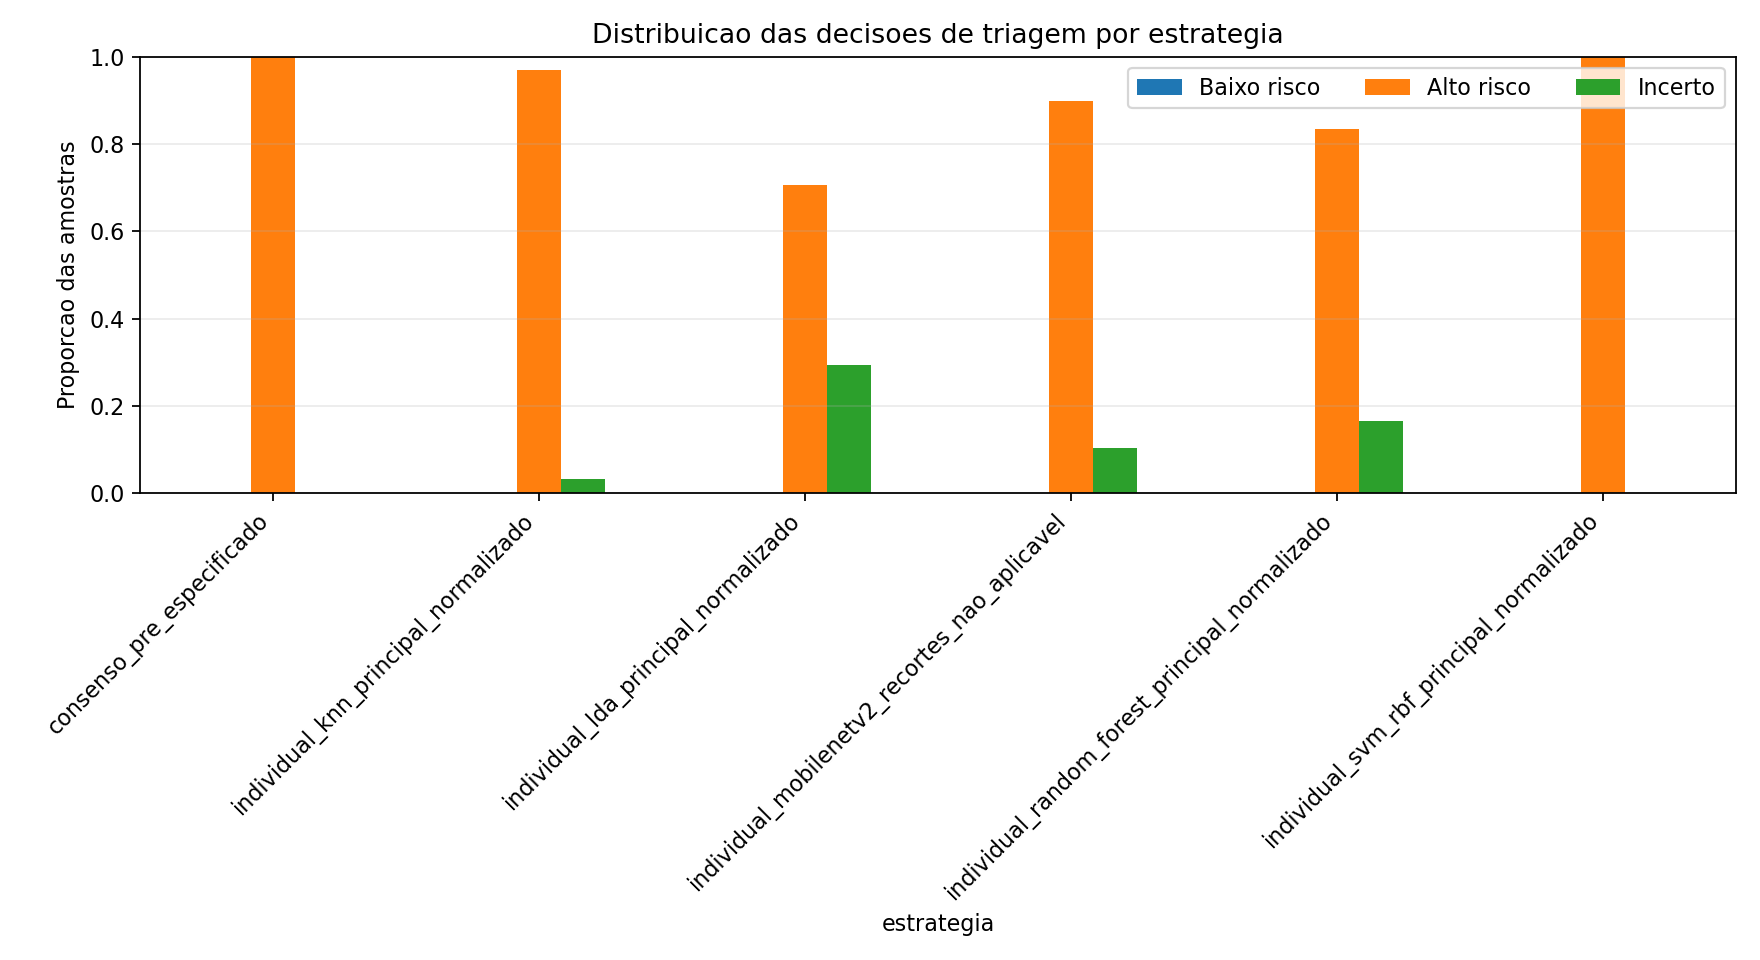
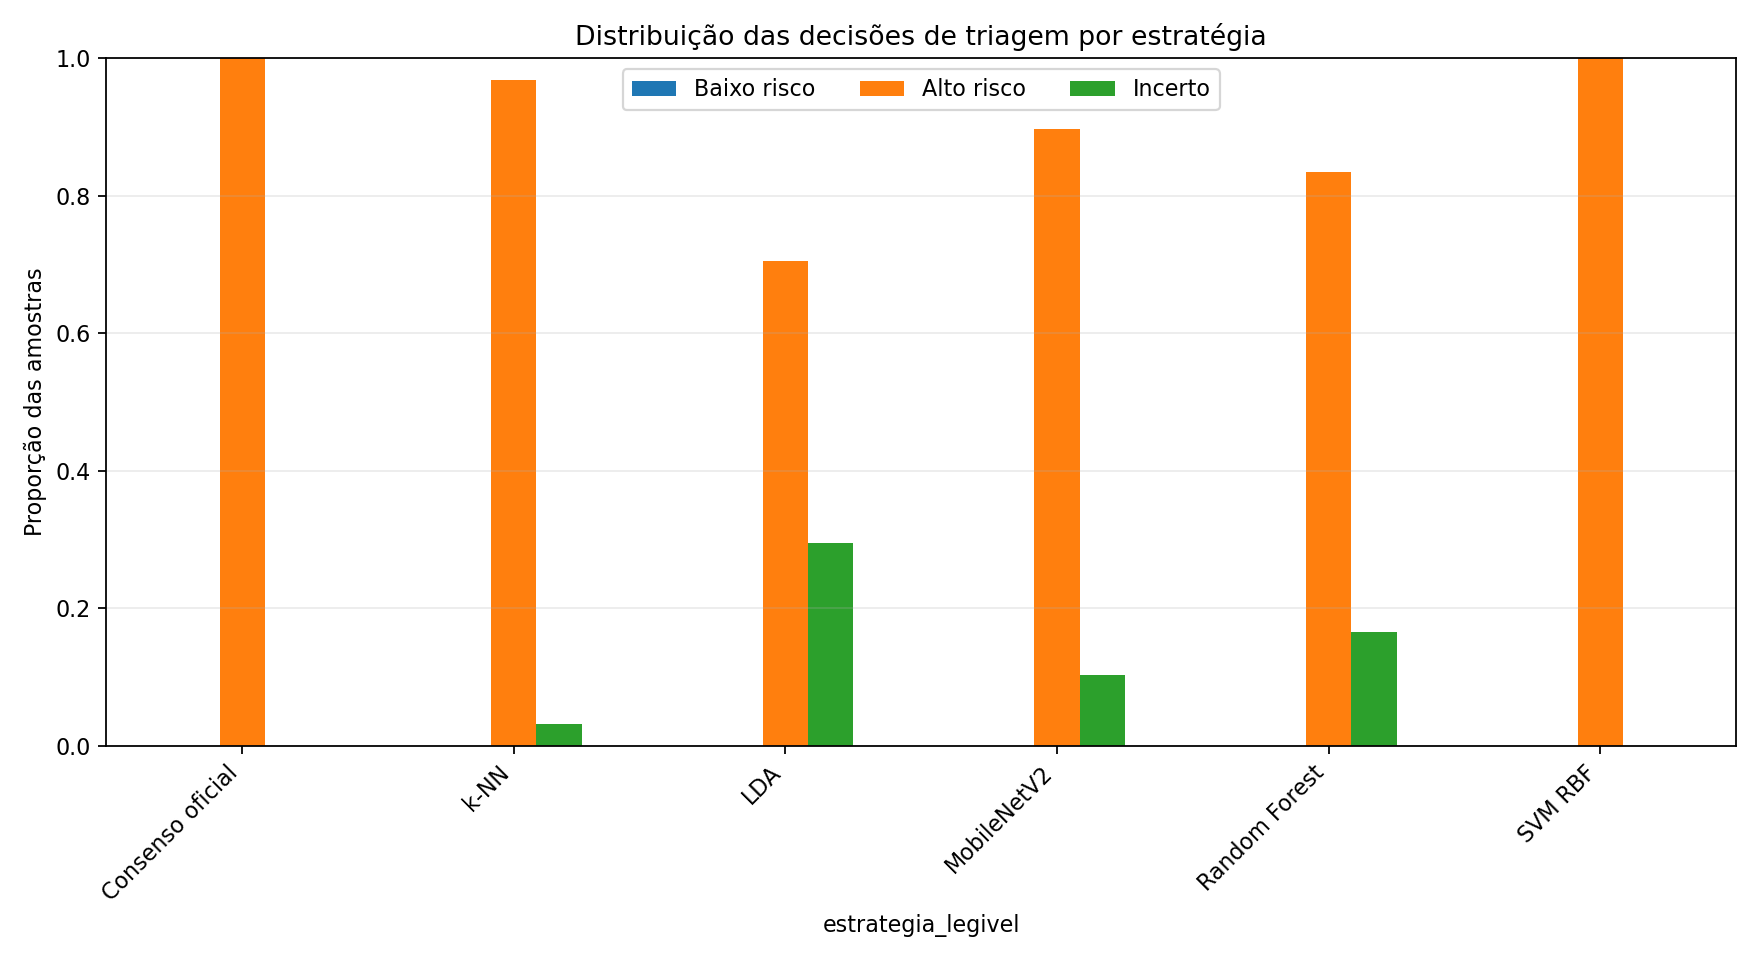
Ajusta apresentação do relatório de triagem

diff --git a/docs/relatorio_triagem_preventiva.md b/docs/relatorio_triagem_preventiva.md
@@ -1,13 +1,13 @@
-# Relatorio da triagem preventiva
+# Relatório da triagem preventiva
 
-Gerado em: 2026-06-08T15:38:17
+Gerado em: 2026-06-08T15:45:47
 
 ## 1. Objetivo
 
-A triagem preventiva transforma os resultados de classificacao em uma regra
-operacional conservadora. Ela nao substitui a avaliacao manual: o objetivo e
-priorizar alto risco, manter incerteza quando o sinal nao e suficiente e evitar
-tratar baixo risco como liberacao automatica.
+A triagem preventiva transforma os resultados de classificação em uma regra
+operacional conservadora. Ela não substitui a avaliação manual: o objetivo é
+priorizar alto risco, manter incerteza quando o sinal não é suficiente e evitar
+tratar baixo risco como liberação automática.
 
 ## 2. Entradas
 
@@ -19,9 +19,9 @@ tratar baixo risco como liberacao automatica.
 - `saidas\tabelas\08_triagem\resumo_triagem_micro_macro.csv`
 - `saidas\tabelas\08_triagem\score_triagem_recomendado.csv`
 
-## 3. Estrategia oficial
+## 3. Estratégia oficial
 
-A estrategia oficial foi definida antes da avaliacao externa:
+A estratégia oficial foi definida antes da avaliação externa:
 `consenso_pre_especificado`.
 
 Regras:
@@ -30,9 +30,14 @@ Regras:
   baixos no fold;
 - alto risco: pelo menos um modelo acima do seu threshold alto no fold;
 - incerto: demais casos;
-- se algum modelo/fold nao tiver threshold baixo seguro, nao ha baixo risco
+- se algum modelo/fold não tiver threshold baixo seguro, não há baixo risco
   naquele fold;
-- a comparacao externa de estrategias e exploratoria e nao seleciona a regra.
+- a comparação externa de estratégias é exploratória e não seleciona a regra.
+
+O termo `crossfit` permanece apenas nos nomes técnicos dos arquivos. Neste
+relatório, ele significa validação externa
+leave-one-experimento-tratamento-out com calibração interna por grupo; não deve
+ser interpretado como cross-fitting estatístico clássico.
 
 Invariantes registrados:
 
@@ -42,96 +47,96 @@ Invariantes registrados:
 
 ## 4. Thresholds
 
-Threshold baixo: maior threshold da validacao interna com `fn == 0`,
+Threshold baixo: maior threshold da validação interna com `fn == 0`,
 `tn >= minimo_utilidade` e `threshold_baixo < threshold_alto`, em que
 `minimo_utilidade = max(5, ceil(0.05 * suporte_nao_contaminada_validacao))`.
 
-Threshold alto: melhor F1 da classe contaminada na validacao interna,
-desempatando por recall, precisao e menor numero de falsos positivos.
+Threshold alto: melhor F1 da classe contaminada na validação interna,
+desempatando por recall, precisão e menor número de falsos positivos.
 
 Thresholds sem zona de baixo risco:
 
-| fold | grupo_externo | modelo | conjunto_features | status_threshold_baixo |
+| fold | grupo externo | modelo | conjunto de features | status threshold baixo |
 | --- | --- | --- | --- | --- |
-| 1.000 | micro_ondas__controle | knn | principal_normalizado | baixo_risco_suspenso |
-| 1.000 | micro_ondas__controle | lda | principal_normalizado | baixo_risco_suspenso |
-| 1.000 | micro_ondas__controle | mobilenetv2_recortes | nao_aplicavel | baixo_risco_suspenso |
-| 1.000 | micro_ondas__controle | random_forest | principal_normalizado | baixo_risco_suspenso |
-| 1.000 | micro_ondas__controle | svm_rbf | principal_normalizado | baixo_risco_suspenso |
-| 2.000 | micro_ondas__mw | knn | principal_normalizado | baixo_risco_suspenso |
-| 2.000 | micro_ondas__mw | lda | principal_normalizado | baixo_risco_suspenso |
-| 2.000 | micro_ondas__mw | mobilenetv2_recortes | nao_aplicavel | baixo_risco_suspenso |
-| 2.000 | micro_ondas__mw | random_forest | principal_normalizado | baixo_risco_suspenso |
-| 2.000 | micro_ondas__mw | svm_rbf | principal_normalizado | baixo_risco_suspenso |
-| 3.000 | piloto__controle | knn | principal_normalizado | baixo_risco_suspenso |
-| 3.000 | piloto__controle | lda | principal_normalizado | baixo_risco_suspenso |
-| 3.000 | piloto__controle | mobilenetv2_recortes | nao_aplicavel | baixo_risco_suspenso |
-| 3.000 | piloto__controle | random_forest | principal_normalizado | baixo_risco_suspenso |
-| 3.000 | piloto__controle | svm_rbf | principal_normalizado | baixo_risco_suspenso |
-| 4.000 | piloto__fungicida | knn | principal_normalizado | baixo_risco_suspenso |
-| 4.000 | piloto__fungicida | lda | principal_normalizado | baixo_risco_suspenso |
-| 4.000 | piloto__fungicida | mobilenetv2_recortes | nao_aplicavel | baixo_risco_suspenso |
-| 4.000 | piloto__fungicida | random_forest | principal_normalizado | baixo_risco_suspenso |
-| 4.000 | piloto__fungicida | svm_rbf | principal_normalizado | baixo_risco_suspenso |
+| 1 | micro_ondas__controle | knn | principal_normalizado | baixo_risco_suspenso |
+| 1 | micro_ondas__controle | lda | principal_normalizado | baixo_risco_suspenso |
+| 1 | micro_ondas__controle | mobilenetv2_recortes | nao_aplicavel | baixo_risco_suspenso |
+| 1 | micro_ondas__controle | random_forest | principal_normalizado | baixo_risco_suspenso |
+| 1 | micro_ondas__controle | svm_rbf | principal_normalizado | baixo_risco_suspenso |
+| 2 | micro_ondas__mw | knn | principal_normalizado | baixo_risco_suspenso |
+| 2 | micro_ondas__mw | lda | principal_normalizado | baixo_risco_suspenso |
+| 2 | micro_ondas__mw | mobilenetv2_recortes | nao_aplicavel | baixo_risco_suspenso |
+| 2 | micro_ondas__mw | random_forest | principal_normalizado | baixo_risco_suspenso |
+| 2 | micro_ondas__mw | svm_rbf | principal_normalizado | baixo_risco_suspenso |
+| 3 | piloto__controle | knn | principal_normalizado | baixo_risco_suspenso |
+| 3 | piloto__controle | lda | principal_normalizado | baixo_risco_suspenso |
+| 3 | piloto__controle | mobilenetv2_recortes | nao_aplicavel | baixo_risco_suspenso |
+| 3 | piloto__controle | random_forest | principal_normalizado | baixo_risco_suspenso |
+| 3 | piloto__controle | svm_rbf | principal_normalizado | baixo_risco_suspenso |
+| 4 | piloto__fungicida | knn | principal_normalizado | baixo_risco_suspenso |
+| 4 | piloto__fungicida | lda | principal_normalizado | baixo_risco_suspenso |
+| 4 | piloto__fungicida | mobilenetv2_recortes | nao_aplicavel | baixo_risco_suspenso |
+| 4 | piloto__fungicida | random_forest | principal_normalizado | baixo_risco_suspenso |
+| 4 | piloto__fungicida | svm_rbf | principal_normalizado | baixo_risco_suspenso |
 
 ## 5. Resultado oficial
 
-| estrategia_oficial | total | baixo_risco | alto_risco | incerto | contaminadas_baixo_risco | taxa_contaminada_baixo_risco | recall_alto_risco_contaminada | precisao_alto_risco_contaminada | cobertura_decisao | viabilidade_operacional | resultado_cientifico |
+| estratégia oficial | total | baixo risco | alto risco | incerto | contaminadas em baixo risco | taxa contaminada em baixo risco | recall alto risco | precisão alto risco | cobertura da decisão | viabilidade operacional | resultado científico |
 | --- | --- | --- | --- | --- | --- | --- | --- | --- | --- | --- | --- |
 | consenso_pre_especificado | 703 | 0 | 703 | 0 | 0 | 0.000 | 1.000 | 0.610 | 1.000 | 0.000 | triagem_nao_viavel_com_base_atual |
 
 Resultado observado nos CSVs consolidados: o consenso oficial classificou
 todas as 703 amostras como alto risco; houve 0 amostras incertas e
 0 em baixo risco. Zona de baixo risco valida:
-nao. O recall de alto risco foi
-1.000 e a precisao de alto risco foi
-0.610.
+não. O recall de alto risco foi
+1,000 e a precisão de alto risco foi
+aproximadamente 0,610.
 
-Com esse resultado, a regra oficial equivale operacionalmente a uma politica de
-cautela total. Ela preserva recall, mas nao apresentou capacidade util de
-priorizacao, porque nao criou zona de baixo risco valida nem reduziu o conjunto
+Com esse resultado, a regra oficial equivale operacionalmente a uma política de
+cautela total. Ela preserva recall, mas não apresentou capacidade útil de
+priorização, porque não criou zona de baixo risco válida nem reduziu o conjunto
 encaminhado a alto risco. Viabilidade operacional:
 false. Motivo registrado:
-`consenso_classificou_todas_amostras_como_alto_risco`. Resultado cientifico: `triagem_nao_viavel_com_base_atual`.
+`consenso_classificou_todas_amostras_como_alto_risco`. Resultado científico: `triagem_nao_viavel_com_base_atual`.
 
 ## 6. Micro e macro
 
-Agregacao micro soma todas as amostras antes das metricas. Agregacao macro
-resume os grupos externos e e mais sensivel a grupos pequenos.
+Agregação micro soma todas as amostras antes das métricas. Agregação macro
+resume os grupos externos e é mais sensível a grupos pequenos.
 
 Resumo micro:
 
-| estrategia | tipo_estrategia | total | baixo_risco | alto_risco | incerto | contaminadas_baixo_risco | recall_alto_risco_contaminada | cobertura_decisao |
+| estratégia | tipo de estratégia | total | baixo risco | alto risco | incerto | contaminadas em baixo risco | recall alto risco | cobertura da decisão |
 | --- | --- | --- | --- | --- | --- | --- | --- | --- |
-| consenso_pre_especificado | consenso_oficial | 703 | 0 | 703 | 0 | 0 | 1.000 | 1.000 |
-| individual_knn_principal_normalizado | individual_descritiva | 703 | 0 | 681 | 22 | 0 | 0.984 | 0.969 |
-| individual_lda_principal_normalizado | individual_descritiva | 703 | 0 | 496 | 207 | 0 | 0.688 | 0.706 |
-| individual_mobilenetv2_recortes_nao_aplicavel | individual_descritiva | 703 | 0 | 631 | 72 | 0 | 0.897 | 0.898 |
-| individual_random_forest_principal_normalizado | individual_descritiva | 703 | 0 | 587 | 116 | 0 | 0.853 | 0.835 |
-| individual_svm_rbf_principal_normalizado | individual_descritiva | 703 | 0 | 703 | 0 | 0 | 1.000 | 1.000 |
+| Consenso oficial | consenso_oficial | 703 | 0 | 703 | 0 | 0 | 1.000 | 1.000 |
+| k-NN | individual_descritiva | 703 | 0 | 681 | 22 | 0 | 0.984 | 0.969 |
+| LDA | individual_descritiva | 703 | 0 | 496 | 207 | 0 | 0.688 | 0.706 |
+| MobileNetV2 | individual_descritiva | 703 | 0 | 631 | 72 | 0 | 0.897 | 0.898 |
+| Random Forest | individual_descritiva | 703 | 0 | 587 | 116 | 0 | 0.853 | 0.835 |
+| SVM RBF | individual_descritiva | 703 | 0 | 703 | 0 | 0 | 1.000 | 1.000 |
 
 Resumo macro:
 
-| estrategia | tipo_estrategia | grupos | taxa_baixo_risco_media | taxa_alto_risco_media | taxa_incerto_media | recall_alto_risco_contaminada_media | cobertura_decisao_media |
+| estratégia | tipo de estratégia | grupos | taxa baixo risco média | taxa alto risco média | taxa incerto média | recall alto risco médio | cobertura da decisão média |
 | --- | --- | --- | --- | --- | --- | --- | --- |
-| consenso_pre_especificado | consenso_oficial | 12.000 | 0.000 | 1.000 | 0.000 | 1.000 | 1.000 |
-| individual_knn_principal_normalizado | individual_descritiva | 12.000 | 0.000 | 0.927 | 0.073 | 0.955 | 0.927 |
-| individual_lda_principal_normalizado | individual_descritiva | 12.000 | 0.000 | 0.693 | 0.307 | 0.684 | 0.693 |
-| individual_mobilenetv2_recortes_nao_aplicavel | individual_descritiva | 12.000 | 0.000 | 0.842 | 0.158 | 0.837 | 0.842 |
-| individual_random_forest_principal_normalizado | individual_descritiva | 12.000 | 0.000 | 0.872 | 0.128 | 0.872 | 0.872 |
-| individual_svm_rbf_principal_normalizado | individual_descritiva | 12.000 | 0.000 | 1.000 | 0.000 | 1.000 | 1.000 |
+| Consenso oficial | consenso_oficial | 12 | 0.000 | 1.000 | 0.000 | 1.000 | 1.000 |
+| k-NN | individual_descritiva | 12 | 0.000 | 0.927 | 0.073 | 0.955 | 0.927 |
+| LDA | individual_descritiva | 12 | 0.000 | 0.693 | 0.307 | 0.684 | 0.693 |
+| MobileNetV2 | individual_descritiva | 12 | 0.000 | 0.842 | 0.158 | 0.837 | 0.842 |
+| Random Forest | individual_descritiva | 12 | 0.000 | 0.872 | 0.128 | 0.872 | 0.872 |
+| SVM RBF | individual_descritiva | 12 | 0.000 | 1.000 | 0.000 | 1.000 | 1.000 |
 
-## 7. Casos criticos
+## 7. Casos críticos
 
 Contaminadas em baixo risco:
 
-Sem dados disponiveis.
+Sem dados disponíveis.
 
-Todos os casos criticos ficam em `saidas\tabelas\08_triagem\casos_criticos_triagem.csv`.
+Todos os casos críticos ficam em `saidas\tabelas\08_triagem\casos_criticos_triagem.csv`.
 
 ## 8. Figuras
 
-![Distribuicao](figuras/triagem/distribuicao_decisoes_triagem.png)
+![Distribuição](figuras/triagem/distribuicao_decisoes_triagem.png)
 
 ![Grupos](figuras/triagem/triagem_por_grupo_consenso.png)
 
@@ -142,127 +147,23 @@ Todos os casos criticos ficam em `saidas\tabelas\08_triagem\casos_criticos_triag
 
 Campos principais:
 
-```json
-{
-  "thresholds": {
-    "protocolo": "triagem_preventiva_crossfit",
-    "origem_tabela_integrada": "saidas\\tabelas\\08_triagem\\tabela_integrada_triagem.csv",
-    "origem_thresholds_internos": "saidas\\tabelas\\08_triagem\\thresholds_internos_modelos_triagem.csv",
-    "threshold_baixo": {
-      "criterio": "maior_threshold_com_fn_0_tn_minimo_e_menor_que_threshold_alto",
-      "formula_minimo_utilidade": "max(5, ceil(0.05 * suporte_nao_contaminada_validacao))",
-      "coluna_minimo_utilidade": "minimo_utilidade_baixo_risco",
-      "minimos_utilidade_por_modelo_fold": [
-        {
-          "fold": 1,
-          "grupo_externo": "micro_ondas__controle",
-          "modelo": "knn",
-          "conjunto_features": "principal_normalizado",
-          "suporte_nao_contaminada_validacao": 31,
-          "minimo_utilidade_baixo_risco": 5
-        },
-        {
-          "fold": 1,
-          "grupo_externo": "micro_ondas__controle",
-          "modelo": "lda",
-          "conjunto_features": "principal_normalizado",
-          "suporte_nao_contaminada_validacao": 31,
-          "minimo_utilidade_baixo_risco": 5
-        },
-        {
-          "fold": 1,
-          "grupo_externo": "micro_ondas__controle",
-          "modelo": "mobilenetv2_recortes",
-          "conjunto_features": "nao_aplicavel",
-          "suporte_nao_contaminada_validacao": 31,
-          "minimo_utilidade_baixo_risco": 5
-        },
-        {
-          "fold": 1,
-          "grupo_externo": "micro_ondas__controle",
-          "modelo": "random_forest",
-          "conjunto_features": "principal_normalizado",
-          "suporte_nao_contaminada_validacao": 31,
-          "minimo_utilidade_baixo_risco": 5
-        },
-        {
-          "fold": 1,
-          "grupo_externo": "micro_ondas__controle",
-          "modelo": "svm_rbf",
-          "conjunto_features": "principal_normalizado",
-          "suporte_nao_contaminada_validacao": 31,
-          "minimo_utilidade_baixo_risco": 5
-        },
-        {
-          "fold": 2,
-          "grupo_externo": "micro_ondas__mw",
-          "modelo": "knn",
-          "conjunto_features": "principal_normalizado",
-          "suporte_nao_contaminada_validacao": 31,
-          "minimo_utilidade_baixo_risco": 5
-        },
-        {
-          "fold": 2,
-          "grupo_externo": "micro_ondas__mw",
-          "modelo": "lda",
-          "conjunto_features": "principal_normalizado",
-          "suporte_nao_contaminada_validacao": 31,
-          "minimo_utilidade_baixo_risco": 5
-        },
-        {
-          "fold": 2,
-          "grupo_externo": "micro_ondas__mw",
-          "modelo": "mobilenetv2_recortes",
-          "conjunto_features": "nao_aplicavel",
-          "suporte_nao_contaminada_validacao": 31,
-          "minimo_utilidade_baixo_risco": 5
-        },
-        {
-          "fold": 2,
-          "grupo_externo": "micro_ondas__mw",
-          "modelo": "random_forest",
-          "conjunto_features": "principal_normalizado",
-          "suporte_nao_contaminada_validacao": 31,
-          "minimo_utilidade_baixo_risco": 5
-        },
-        {
-          "fold": 2,
-          "grupo_externo": "micro_ondas__mw",
-          "modelo": "svm_rbf",
-          "conjunto_features": "principal_normalizado",
-          "suporte_nao_contaminada_validacao": 31,
-          "minimo_utilidade_baixo_risco": 5
-        },
-        {
-          "fold": 3,
-          "grupo_externo": "piloto__controle",
-          "modelo": "knn",
-          "conjunto_features": "principal_normalizado",
-          "suporte_nao_contaminada_validacao": 31,
-          "minimo_utilidade_baixo_risco": 5
-        },
-        {
-          "fold": 3,
-          "grupo_externo": "piloto__controle",
-          "modelo": "lda",
-          "conjunto_features": "principal_normalizado",
-          "suporte_nao_contaminada_validacao": 31,
-          "minimo_utilidade_baixo_risco": 5
-        },
-        {
-          "fold": 3,
-          "grupo_externo": "piloto__controle",
-          "modelo": "mobilenetv2_recortes",
-          "conjunto_features": "
-```
+| campo | valor |
+| --- | --- |
+| protocolo | triagem_preventiva_crossfit |
+| abreviacao_crossfit | nome técnico interno dos arquivos; corresponde a validação externa leave-one-experimento-tratamento-out com calibração interna por grupo, não a cross-fitting estatístico clássico |
+| estrategia_oficial | consenso_pre_especificado |
+| criterio_definido_antes_avaliacao | true |
+| usa_resultado_externo_para_selecao | false |
+| formula_minimo_utilidade | max(5, ceil(0.05 * suporte_nao_contaminada_validacao)) |
+| resultado_cientifico | triagem_nao_viavel_com_base_atual |
 
-## 10. Conclusao
+## 10. Conclusão
 
 A triagem preventiva foi avaliada sem selecionar regra por desempenho externo.
-O consenso pre-especificado permanece como estrategia oficial, e as estrategias
-individuais continuam apenas como analises secundarias e descritivas; nenhuma
-delas deve ser promovida a oficial depois de olhar a validacao externa.
+O consenso pré-especificado permanece como estratégia oficial, e as estratégias
+individuais continuam apenas como análises secundárias e descritivas; nenhuma
+delas deve ser promovida a oficial depois de olhar a validação externa.
 
 O resultado observado foi cautela total: todas as 703 amostras em alto risco,
 0 incertas e 0 em baixo risco. Com a base atual,
-a triagem automatica nao foi considerada operacionalmente viavel.
+a triagem automática não foi considerada operacionalmente viável.
